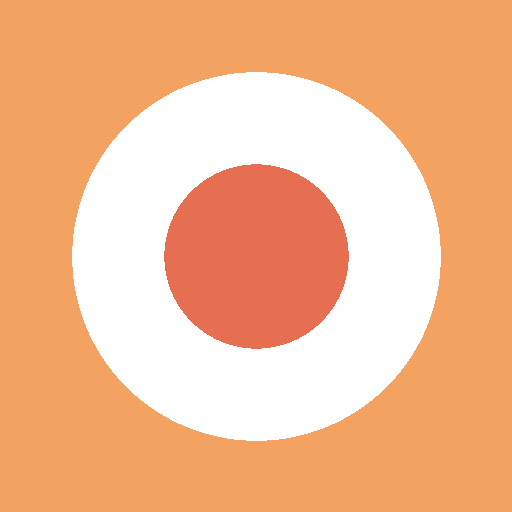
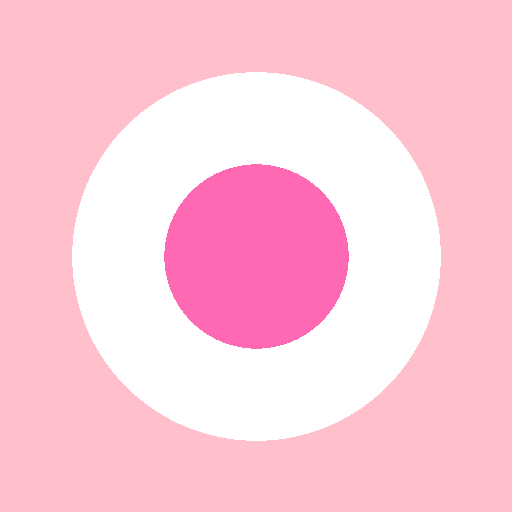
v2 粉紅豬豬主題：Roseline 指定色票、貼紙風卡片、吉祥物占位、LICENSE（圖像保留所有權利）

diff --git a/css/style.css b/css/style.css
@@ -1,88 +1,117 @@
-/* style.css ── 外觀。改顏色、字型、圓角都在這裡，不會影響邏輯。 */
+/* style.css v2 ── 粉紅豬豬主題。改顏色、字型、圓角都在這裡，不會影響邏輯。
+   色票由 Roseline 指定（2026-09-14）：
+   #cd5c5c 印度紅   #f08080 淺珊瑚   #fa8072 鮭魚粉
+   #ff69b4 亮粉紅   #ffb6c1 淺粉紅   #ffc0cb 粉紅          */
 :root {
-  --bg: #fbf7f2;
-  --card: #ffffff;
-  --text: #2b2b2b;
-  --muted: #8a8580;
-  --accent: #f4a261;      /* 主色：暖橘 */
-  --accent-dark: #e76f51;
-  --line: #eee7df;
-  --danger: #d9534f;
-  --radius: 16px;
+  --pink-900: #cd5c5c;   /* 最深：強調文字、超標警示 */
+  --pink-700: #f08080;   /* 次深：次要按鈕、邊線 hover */
+  --pink-600: #fa8072;   /* 鮭魚：進度條漸層起點 */
+  --pink-500: #ff69b4;   /* 主色：新增按鈕、選中狀態 */
+  --pink-300: #ffb6c1;   /* 淺：邊框、分隔線 */
+  --pink-200: #ffc0cb;   /* 最淺：頁面底色 */
+
+  --bg: var(--pink-200);
+  --card: #fffafb;                 /* 卡片：帶一點粉的白，像貼紙紙面 */
+  --text: #5a3a3a;                 /* 深棕紅，比純黑柔和 */
+  --muted: #b97a7a;
+  --accent: var(--pink-500);
+  --accent-dark: var(--pink-900);
+  --line: var(--pink-300);
+  --danger: var(--pink-900);
+  --radius: 22px;
+  --sticker: 0 0 0 3px #fff, 0 4px 14px rgba(205, 92, 92, .18);  /* 貼紙白邊 + 淡影 */
   --safe-bottom: env(safe-area-inset-bottom, 0px);
 }
 * { box-sizing: border-box; }
 html, body { margin: 0; background: var(--bg); color: var(--text);
   font-family: -apple-system, "PingFang TC", "Noto Sans TC", system-ui, sans-serif; }
-body { padding-bottom: calc(96px + var(--safe-bottom)); }
-button { font: inherit; cursor: pointer; }
+body { padding-bottom: calc(96px + var(--safe-bottom));
+  /* 底色上鋪淡淡的圓點，像手帳紙 */
+  background-image: radial-gradient(rgba(255,255,255,.55) 1.2px, transparent 1.3px);
+  background-size: 18px 18px; }
+button { font: inherit; cursor: pointer; color: inherit; }
 
+/* ── 頂欄 ── */
 .topbar { display: flex; align-items: center; justify-content: space-between;
   padding: calc(12px + env(safe-area-inset-top, 0px)) 12px 8px; }
-.date-block { text-align: center; }
-.date-label { font-size: 18px; font-weight: 700; }
-.icon-btn { width: 40px; height: 40px; border-radius: 50%; border: 0; background: var(--card);
-  font-size: 22px; box-shadow: 0 1px 3px rgba(0,0,0,.08); }
-.link-btn { border: 0; background: none; color: var(--accent-dark); font-size: 13px; padding: 4px; }
+.date-block { text-align: center; display: flex; flex-direction: column; align-items: center; gap: 2px; }
+.date-label { font-size: 18px; font-weight: 800; letter-spacing: .5px; }
+.icon-btn { width: 40px; height: 40px; border-radius: 50%; border: 2px solid var(--line); background: var(--card);
+  font-size: 22px; box-shadow: var(--sticker); }
+.link-btn { border: 0; background: none; color: var(--accent-dark); font-size: 13px; padding: 4px; font-weight: 600; }
 
-main { padding: 0 14px; display: grid; gap: 12px; }
-.card { background: var(--card); border-radius: var(--radius); padding: 16px;
-  box-shadow: 0 1px 4px rgba(0,0,0,.05); }
+/* 吉祥物：有圖才顯示，沒圖自動隱藏 */
+.mascot { display: block; margin: 0 auto; max-width: 100%; }
+.mascot-hero { height: 64px; margin-top: 4px; }
+.mascot-empty { height: 110px; margin: 6px auto 2px; }
+
+/* ── 卡片：貼紙風 ── */
+main { padding: 4px 14px 0; display: grid; gap: 14px; }
+.card { background: var(--card); border-radius: var(--radius); padding: 16px 18px;
+  border: 2px solid var(--line); box-shadow: var(--sticker); }
 .muted { color: var(--muted); }
 .small { font-size: 12px; }
-.big { font-size: 40px; font-weight: 800; line-height: 1.1; }
-.unit { font-size: 14px; font-weight: 500; color: var(--muted); }
+.big { font-size: 42px; font-weight: 900; line-height: 1.05; color: var(--accent-dark); }
+.unit { font-size: 14px; font-weight: 600; color: var(--muted); }
 .summary-row { display: flex; justify-content: space-between; align-items: flex-end; }
 .goal { text-align: right; }
-.goal-btn { border: 1px dashed var(--line); background: none; border-radius: 10px; padding: 4px 8px; }
-.bar { height: 10px; background: var(--line); border-radius: 999px; margin: 12px 0 6px; overflow: hidden; }
-.bar-fill { height: 100%; width: 0; background: var(--accent); border-radius: 999px; transition: width .3s; }
-.bar-fill.over { background: var(--danger); }
+.goal-btn { border: 2px dashed var(--line); background: #fff; border-radius: 12px; padding: 4px 10px; font-weight: 700; }
+.bar { height: 12px; background: #fff; border: 2px solid var(--line); border-radius: 999px; margin: 12px 0 6px; overflow: hidden; }
+.bar-fill { height: 100%; width: 0; border-radius: 999px; transition: width .3s;
+  background: linear-gradient(90deg, var(--pink-300), var(--pink-500)); }
+.bar-fill.over { background: linear-gradient(90deg, var(--pink-600), var(--pink-900)); }
 .macros { margin-top: 8px; }
 
-.section-title { margin: 0 0 8px; font-size: 15px; color: var(--muted); font-weight: 600; }
+.section-title { margin: 0 0 8px; font-size: 15px; color: var(--accent-dark); font-weight: 800; }
 .entry-list { list-style: none; margin: 0; padding: 0; }
-.entry { display: flex; align-items: center; gap: 10px; padding: 10px 0; border-bottom: 1px solid var(--line); }
+.entry { display: flex; align-items: center; gap: 10px; padding: 10px 0; border-bottom: 2px dotted var(--line); }
 .entry:last-child { border-bottom: 0; }
 .entry-main { flex: 1; min-width: 0; }
-.entry-name { font-weight: 600; overflow: hidden; text-overflow: ellipsis; white-space: nowrap; }
+.entry-name { font-weight: 700; overflow: hidden; text-overflow: ellipsis; white-space: nowrap; }
 .entry-sub { font-size: 12px; color: var(--muted); }
-.entry-kcal { font-weight: 700; white-space: nowrap; }
+.entry-kcal { font-weight: 800; white-space: nowrap; color: var(--accent-dark); }
 .del { border: 0; background: none; color: var(--muted); font-size: 18px; padding: 4px 8px; }
-.empty { text-align: center; margin: 8px 0; }
+.del:hover { color: var(--accent-dark); }
+.empty { text-align: center; margin: 4px 0 6px; }
 
 .tools { display: flex; flex-wrap: wrap; gap: 8px; align-items: center; }
-.tool-btn { border: 1px solid var(--line); background: var(--bg); border-radius: 10px; padding: 8px 12px; }
+.tool-btn { border: 2px solid var(--line); background: #fff; border-radius: 14px; padding: 8px 14px; font-weight: 600; }
+.tool-btn:hover { border-color: var(--pink-700); }
 .tools .small { flex-basis: 100%; }
 
-.fab { position: fixed; right: 20px; bottom: calc(24px + var(--safe-bottom)); width: 60px; height: 60px;
-  border-radius: 50%; border: 0; background: var(--accent-dark); color: #fff; font-size: 32px;
-  box-shadow: 0 6px 16px rgba(231,111,81,.4); }
+/* ── 新增按鈕：亮粉紅貼紙 ── */
+.fab { position: fixed; right: 20px; bottom: calc(24px + var(--safe-bottom)); width: 62px; height: 62px;
+  border-radius: 50%; border: 3px solid #fff; background: var(--accent); color: #fff; font-size: 32px; font-weight: 700;
+  box-shadow: 0 6px 18px rgba(255,105,180,.45); transform: rotate(-6deg); transition: transform .15s; }
+.fab:active { transform: rotate(-6deg) scale(.94); }
 
+/* ── 底部面板 ── */
 .sheet { position: fixed; inset: 0; z-index: 10; }
-.sheet-backdrop { position: absolute; inset: 0; background: rgba(0,0,0,.3); }
+.sheet-backdrop { position: absolute; inset: 0; background: rgba(205,92,92,.25); }
 .sheet-panel { position: absolute; left: 0; right: 0; bottom: 0; background: var(--card);
-  border-radius: 20px 20px 0 0; padding: 8px 16px calc(20px + var(--safe-bottom)); max-height: 85vh;
-  display: flex; flex-direction: column; }
-.sheet-handle { width: 40px; height: 4px; border-radius: 2px; background: var(--line); margin: 4px auto 12px; }
-.search { width: 100%; padding: 12px 14px; border-radius: 12px; border: 1px solid var(--line);
-  font-size: 16px; margin-bottom: 8px; background: var(--bg); }
+  border-radius: 26px 26px 0 0; border-top: 3px solid var(--line);
+  padding: 8px 16px calc(20px + var(--safe-bottom)); max-height: 85vh; display: flex; flex-direction: column; }
+.sheet-handle { width: 44px; height: 5px; border-radius: 3px; background: var(--line); margin: 4px auto 12px; }
+.search { width: 100%; padding: 12px 14px; border-radius: 14px; border: 2px solid var(--line);
+  font-size: 16px; margin-bottom: 8px; background: #fff; color: var(--text); }
+.search:focus { outline: none; border-color: var(--accent); }
 .results { list-style: none; margin: 0; padding: 0; overflow-y: auto; max-height: 50vh; }
-.result { display: flex; justify-content: space-between; gap: 8px; padding: 10px 4px; border-bottom: 1px solid var(--line); }
-.result-name { font-weight: 600; }
+.result { display: flex; justify-content: space-between; gap: 8px; padding: 10px 4px; border-bottom: 2px dotted var(--line); }
+.result-name { font-weight: 700; }
 .result-sub { font-size: 12px; color: var(--muted); }
-.result-kcal { white-space: nowrap; font-weight: 600; }
+.result-kcal { white-space: nowrap; font-weight: 700; color: var(--accent-dark); }
 
-.pick-name { font-size: 20px; font-weight: 700; }
+.pick-name { font-size: 20px; font-weight: 800; }
 .portion-grid { display: grid; grid-template-columns: repeat(4, 1fr); gap: 8px; margin: 14px 0 10px; }
-.portion { padding: 12px 0; border-radius: 12px; border: 1px solid var(--line); background: var(--bg); }
-.portion.active { background: var(--accent); border-color: var(--accent); color: #fff; font-weight: 700; }
+.portion { padding: 12px 0; border-radius: 14px; border: 2px solid var(--line); background: #fff; font-weight: 600; }
+.portion.active { background: var(--accent); border-color: var(--accent); color: #fff; font-weight: 800; }
 .row { display: flex; align-items: center; justify-content: space-between; margin: 6px 0; }
 .row.gap { gap: 10px; margin-top: 14px; }
 .row.gap > * { flex: 1; }
-.mini { width: 90px; padding: 8px; border-radius: 10px; border: 1px solid var(--line); font-size: 16px; text-align: center; }
+.mini { width: 90px; padding: 8px; border-radius: 12px; border: 2px solid var(--line); font-size: 16px; text-align: center; }
 .pick-kcal { font-size: 18px; margin-top: 8px; }
-.primary { border: 0; background: var(--accent-dark); color: #fff; border-radius: 12px; padding: 12px; font-weight: 700; }
+.primary { border: 0; background: var(--accent); color: #fff; border-radius: 14px; padding: 12px; font-weight: 800;
+  box-shadow: 0 4px 12px rgba(255,105,180,.35); }
 
 .toast { position: fixed; left: 50%; bottom: calc(100px + var(--safe-bottom)); transform: translateX(-50%);
-  background: #333; color: #fff; padding: 10px 16px; border-radius: 999px; font-size: 14px; z-index: 20; }
+  background: var(--accent-dark); color: #fff; padding: 10px 16px; border-radius: 999px; font-size: 14px; z-index: 20; }

diff --git a/index.html b/index.html
@@ -4,7 +4,7 @@
   <meta charset="utf-8">
   <meta name="viewport" content="width=device-width, initial-scale=1, viewport-fit=cover">
   <title>今日熱量</title>
-  <meta name="theme-color" content="#f4a261">
+  <meta name="theme-color" content="#ffc0cb">
   <link rel="manifest" href="./manifest.json">
   <link rel="apple-touch-icon" href="./icons/icon-192.png">
   <meta name="apple-mobile-web-app-capable" content="yes">
@@ -16,6 +16,7 @@
   <header class="topbar">
     <button id="prevDay" class="icon-btn" aria-label="前一天">&lsaquo;</button>
     <div class="date-block">
+      <img class="mascot mascot-hero" src="./assets/pig-hero.png" alt="" onerror="this.hidden=true">
       <div id="dateLabel" class="date-label">2026-09-14</div>
       <button id="todayBtn" class="link-btn">回到今天</button>
     </div>
@@ -44,7 +45,7 @@
     <section class="card">
       <h2 class="section-title">吃了什麼</h2>
       <ul id="entryList" class="entry-list"></ul>
-      <p id="emptyHint" class="muted empty">還沒有紀錄，按右下角「＋」加一筆。</p>
+      <div id="emptyHint"><img class="mascot mascot-empty" src="./assets/pig-empty.png" alt="" onerror="this.hidden=true"><p class="muted empty">還沒有紀錄，按右下角「＋」加一筆。</p></div>
     </section>
 
     <section class="card tools">

diff --git a/sw.js b/sw.js
@@ -1,6 +1,6 @@
 // sw.js ── service worker（守門員）。第一次開啟時把檔案存進手機，之後離線也能用。
 // 每次改程式要把 VERSION 改一個新字串，手機才會換新版。
-const VERSION = 'v1.2-2026-09-14';
+const VERSION = 'v2.0-pink-2026-09-14';
 const FILES = [
   './', './index.html', './css/style.css',
   './js/app.js', './js/storage.js', './js/foods.js',

diff --git a/LICENSE.md b/LICENSE.md
@@ -1,0 +1,23 @@
+# 授權聲明 / License
+
+## 程式碼 (Code)
+
+本倉庫中的程式碼（HTML、CSS、JavaScript、JSON 設定檔）採用 MIT License。
+
+Copyright (c) 2026 Roseline Pao
+
+Permission is hereby granted, free of charge, to any person obtaining a copy of this software and associated documentation files (the "Software"), to deal in the Software without restriction, including without limitation the rights to use, copy, modify, merge, publish, distribute, sublicense, and/or sell copies of the Software, subject to the following conditions: The above copyright notice and this permission notice shall be included in all copies or substantial portions of the Software. THE SOFTWARE IS PROVIDED "AS IS", WITHOUT WARRANTY OF ANY KIND.
+
+## 插圖與圖像 (Illustrations & Images) — 保留所有權利
+
+`assets/` 與 `icons/` 資料夾內所有插圖、角色（豬豬）、圖示，均為 Roseline Pao 原創手繪作品。
+
+**All illustrations and character artwork in `assets/` and `icons/` are © 2026 Roseline Pao. All rights reserved.**
+
+未經作者書面同意，不得複製、修改、轉載、商用或用於其他專案。MIT License **不適用**於這些圖像檔。
+
+The MIT License above does NOT apply to these image files. They may not be copied, modified, redistributed, or used in any other project without written permission from the author.
+
+## 食物資料 (Food Data)
+
+`data/foods.json` 整理自衛福部食藥署食品營養成分資料庫及各品牌公開營養標示，僅供個人記錄參考，不保證精確。
